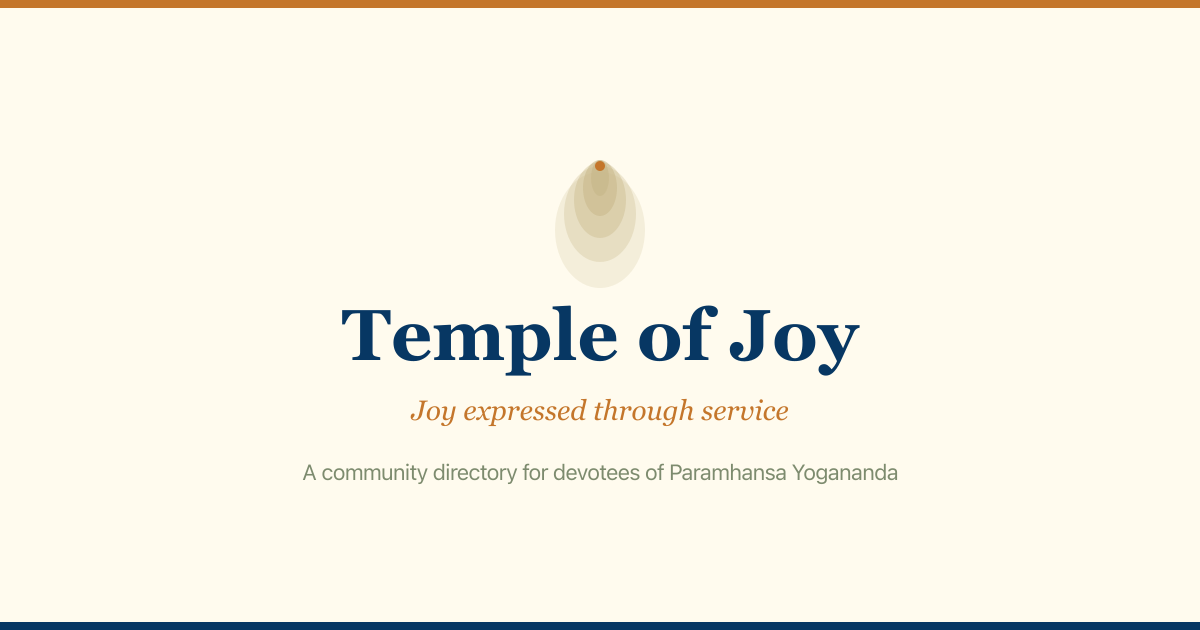
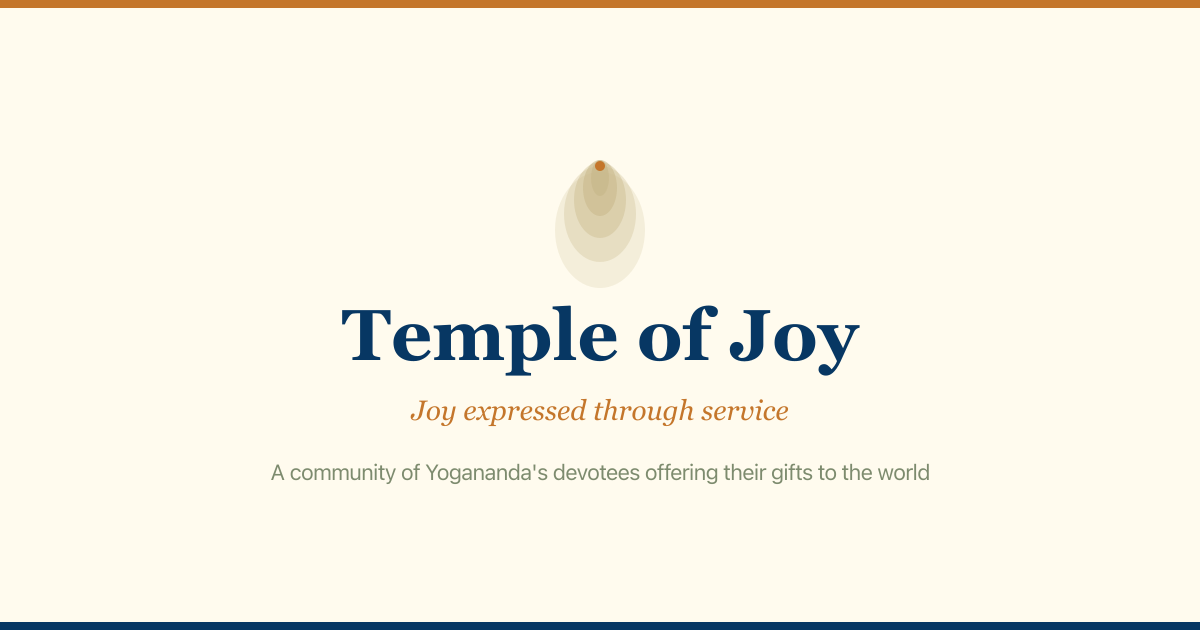
fix: update homepage copy, OG image, and README to community messaging

Changed region(s): [[0.2158, 0.7238, 0.4625, 0.7841], [0.555, 0.7238, 0.7708, 0.7841]]

diff --git a/README.md b/README.md
@@ -2,13 +2,13 @@
 
 **Joy expressed through service**
 
-A community directory for devotees of Paramhansa Yogananda across all lineages -- celebrating how they serve the world through practice, creativity, and heartfelt service.
+A community of Yogananda's devotees offering their gifts to the world -- through practice, creativity, and service.
 
 [templeofjoy.org](https://templeofjoy.org)
 
 ## What is this?
 
-Temple of Joy is a living directory where devotees can share their gifts with the community. Whether you teach meditation, create devotional art, offer healing, or serve in any other way -- your offering belongs here.
+Temple of Joy is a community where devotees can share their gifts with the world. Whether you teach meditation, create devotional art, offer healing, or serve in any other way -- your offering belongs here.
 
 The name carries a meaning: *temple* is the body, the vessel through which we serve. *Joy* is the essence we share when we offer ourselves fully to others.
 
